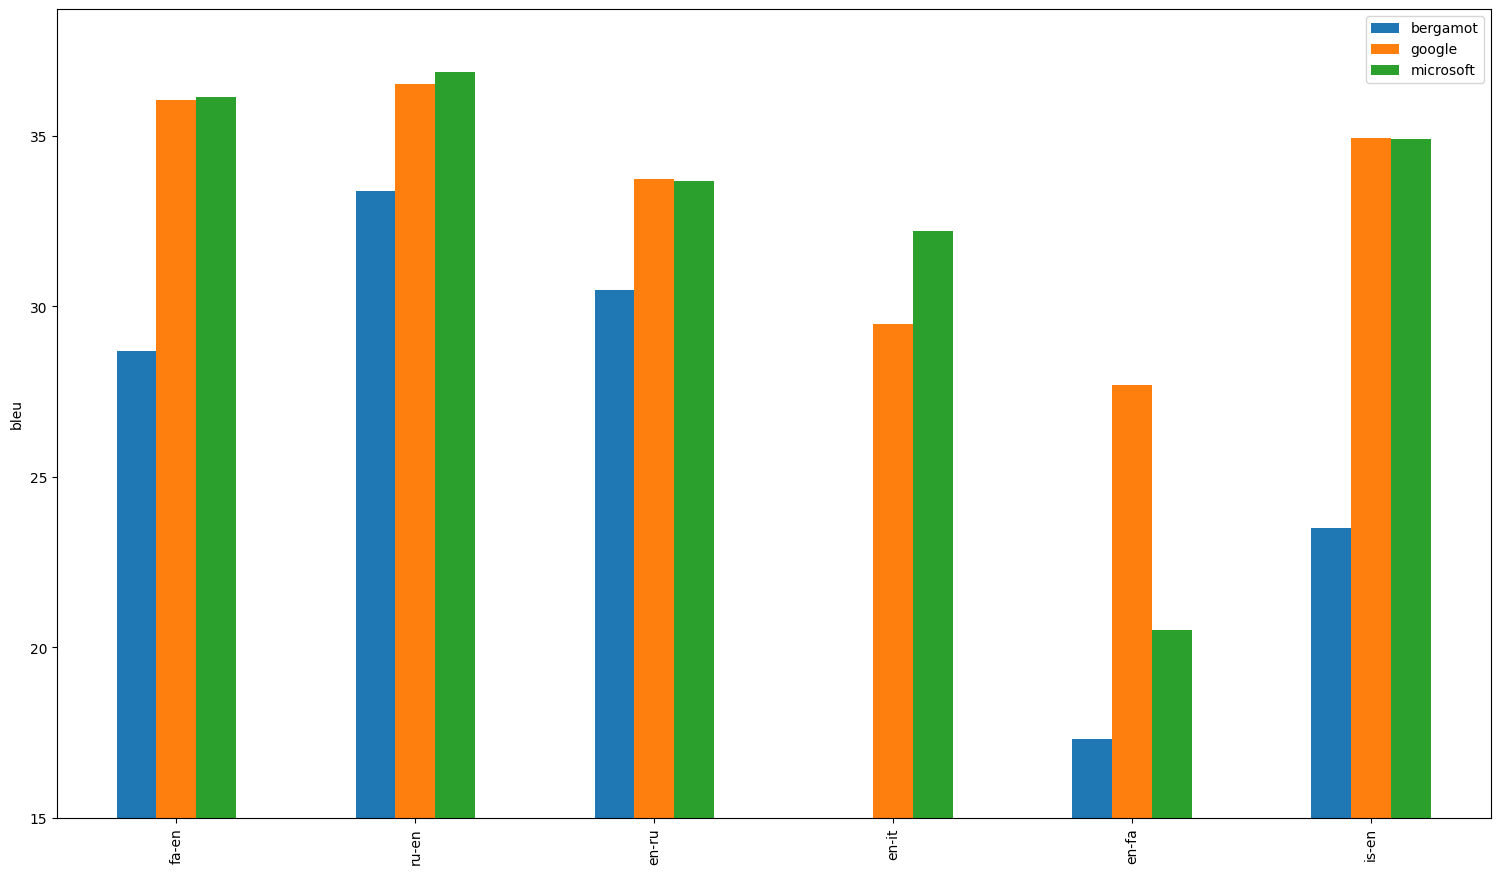
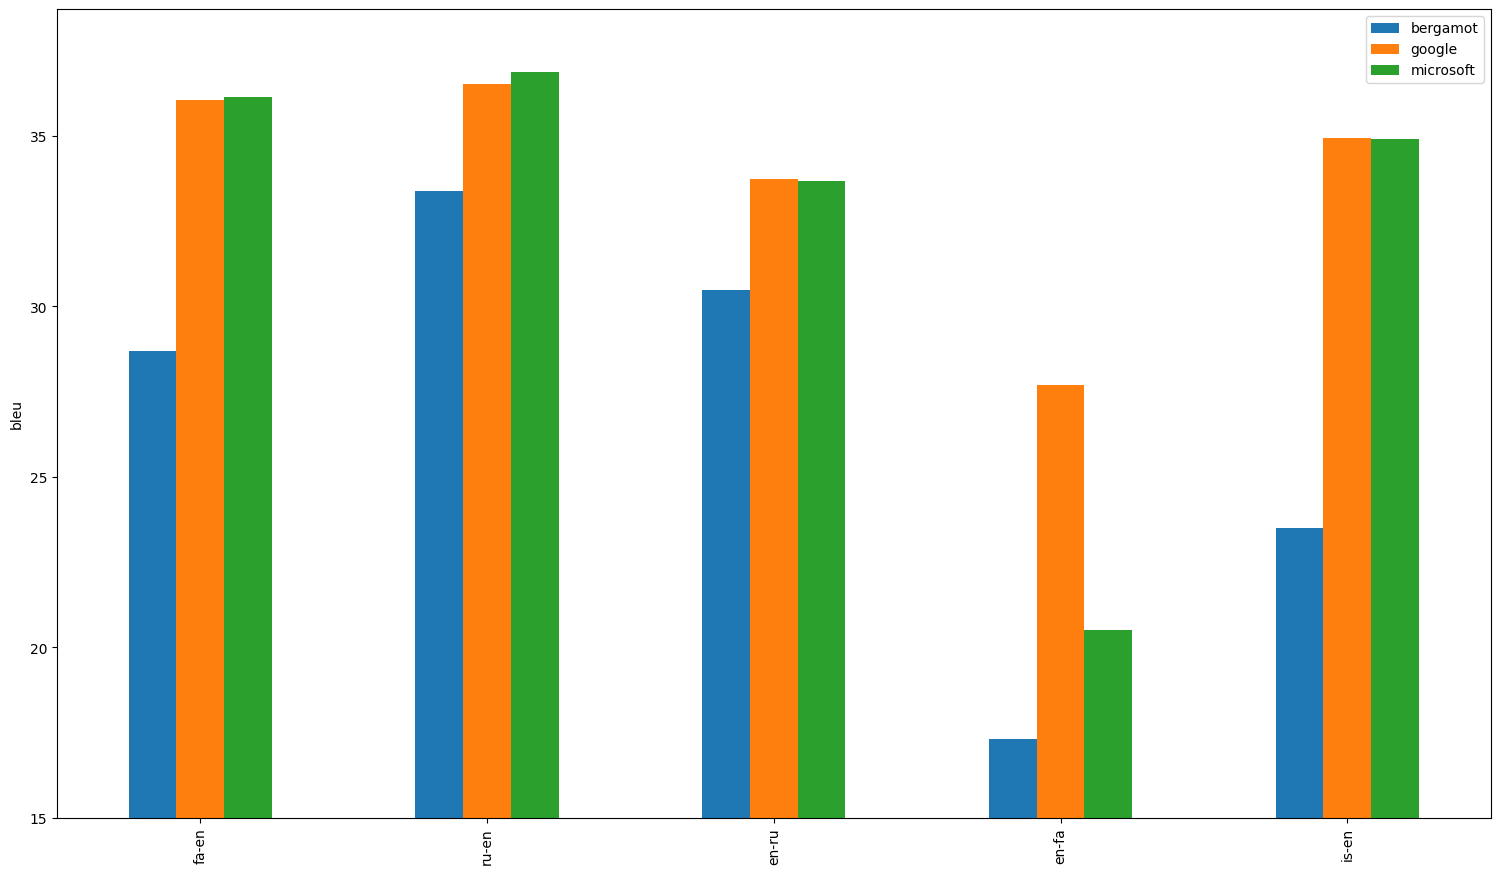
Update evaluation results [skip ci]

diff --git a/evaluation/dev/results.md b/evaluation/dev/results.md
@@ -57,11 +57,11 @@ Both absolute and relative differences in BLEU scores between Bergamot and other
 
 ## avg
 
-| Translator/Dataset | fa-en | ru-en | en-ru | en-it | en-fa | is-en |
-| --- | --- | --- | --- | --- | --- | --- |
-| bergamot | 28.70 | 33.37 | 30.47 | N/A | 17.30 | 23.50 |
-| google | 36.05 (+7.35, +25.61%) | 36.53 (+3.15, +9.45%) | 33.72 (+3.25, +10.67%) | 29.47 | 27.70 (+10.40, +60.12%) | 34.95 (+11.45, +48.72%) |
-| microsoft | 36.15 (+7.45, +25.96%) | 36.87 (+3.50, +10.49%) | 33.68 (+3.21, +10.53%) | 32.20 | 20.50 (+3.20, +18.50%) | 34.90 (+11.40, +48.51%) |
+| Translator/Dataset | fa-en | ru-en | en-ru | en-fa | is-en |
+| --- | --- | --- | --- | --- | --- |
+| bergamot | 28.70 | 33.37 | 30.47 | 17.30 | 23.50 |
+| google | 36.05 (+7.35, +25.61%) | 36.53 (+3.15, +9.45%) | 33.72 (+3.25, +10.67%) | 27.70 (+10.40, +60.12%) | 34.95 (+11.45, +48.72%) |
+| microsoft | 36.15 (+7.45, +25.96%) | 36.87 (+3.50, +10.49%) | 33.68 (+3.21, +10.53%) | 20.50 (+3.20, +18.50%) | 34.90 (+11.40, +48.51%) |
 
 ![Results](img/avg.png)
 
@@ -94,16 +94,6 @@ Both absolute and relative differences in BLEU scores between Bergamot and other
 | microsoft | 35.60 (+3.80, +11.95%) | 33.20 (+3.00, +9.93%) | 27.10 (+0.40, +1.50%) | 33.80 (+2.20, +6.96%) | 26.00 (+4.00, +18.18%) | 33.00 (+3.90, +13.40%) | 32.70 (+1.00, +3.15%) | 38.10 (+4.00, +11.73%) | 33.20 (+4.20, +14.48%) | 44.10 (+5.60, +14.55%) |
 
 ![Results](img/en-ru.png)
-
-## en-it
-
-| Translator/Dataset | flores-test | flores-dev | wmt09 |
-| --- | --- | --- | --- |
-| bergamot | N/A | N/A | N/A |
-| google | 30.10 | 29.00 | 29.30 |
-| microsoft | 32.00 | 31.00 | 33.60 |
-
-![Results](img/en-it.png)
 
 ## en-fa
 
